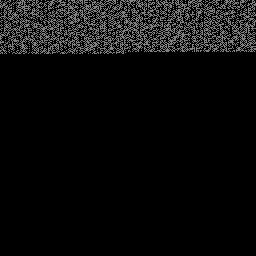
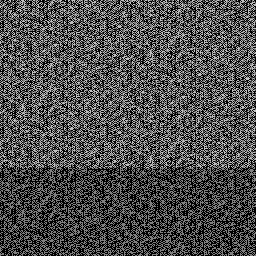
dbl v1.1

diff --git a/textual-geometry/src/geometry/dbl.rs b/textual-geometry/src/geometry/dbl.rs
@@ -52,11 +52,10 @@ impl Geometry<Point> for DBLGeometry {
 
         let char_ix = |x: &char| chars.iter().position(|&y| y == *x);
 
-        let order = f32::log2(self.dim as f32) as u32;
+        let order = f32::log2(self.dim as f32) as u32; // What power of 2 the dimension is
         let num_blocks = (self.dim / 2).pow(2) as usize;
 
         let chunks = sequence.chars().chunks(num_blocks);
-        let num_chunks = sequence.len().div_ceil(num_blocks);
 
         let mut stacks: Vec<Vec<char>> = Vec::with_capacity(num_blocks);
 
@@ -77,11 +76,7 @@ impl Geometry<Point> for DBLGeometry {
                 let mut bits = self.hex_to_bits(ix);
                 bits.iter_mut()
                     .for_each(|b| *b *= 2u32.pow(order - 1 - j as u32));
-                points = points
-                    .into_iter()
-                    .zip(bits)
-                    .map(|(a, b)| a + b + 1)
-                    .collect();
+                points = points.into_iter().zip(bits).map(|(a, b)| a + b).collect();
             }
 
             let x = ((i % (self.dim / 2) as usize) * 2) as u32;
@@ -111,6 +106,25 @@ impl Geometry<Point> for DBLGeometry {
                 z: Some(points[3]),
             });
         }
+
+        let num_layers = sequence.len().div_ceil(num_blocks) as u32;
+        let layer_count_bits = self.hex_to_bits(num_layers);
+        let first_block = &mut self.points[0..4];
+        for (i, point) in first_block.into_iter().enumerate() {
+            if let Some(lum) = point.z {
+                point.z = Some(lum + layer_count_bits[i]);
+            }
+        }
+
+        let null_ix = sequence.len() % num_blocks;
+        let null_point = &mut self.points[null_ix];
+        null_point.z = Some(null_point.z.unwrap() + 1);
+        // let null_block = &mut self.points[null_ix..null_ix+4];
+        // for point in null_block {
+        //     if let Some(lum) = point.z {
+        //         point.z = Some(lum + 1)
+        //     }
+        // }
     }
 
     fn get_points(&self) -> &Vec<Point> {
@@ -147,11 +161,24 @@ impl ReversibleGeometry for DBLGeometry {
             }
         }
 
+        let first_block = &mut points[0..4];
+        let layer_count_bits = first_block
+            .into_iter()
+            .map(|p| {
+                let lum = p.z.unwrap();
+                (lum & 1) == 1
+            })
+            .collect_vec();
+        let num_layers = self.bits_to_hex(&layer_count_bits);
+
         let mut out = String::default();
 
+        println!("{num_layers}");
+
         'outer: for i in (1..8).rev() {
-            for block in points.chunks(4) {
-                if (block[0].z.unwrap() & 1) != 1 {
+            for (j, block) in points.chunks(4).enumerate() {
+                if 7 - num_layers == i && ((block[0].z.unwrap() & 1) == 1) && (j != 0) {
+                    println!("j {j} i {i}");
                     break 'outer;
                 }
                 let bits = block
